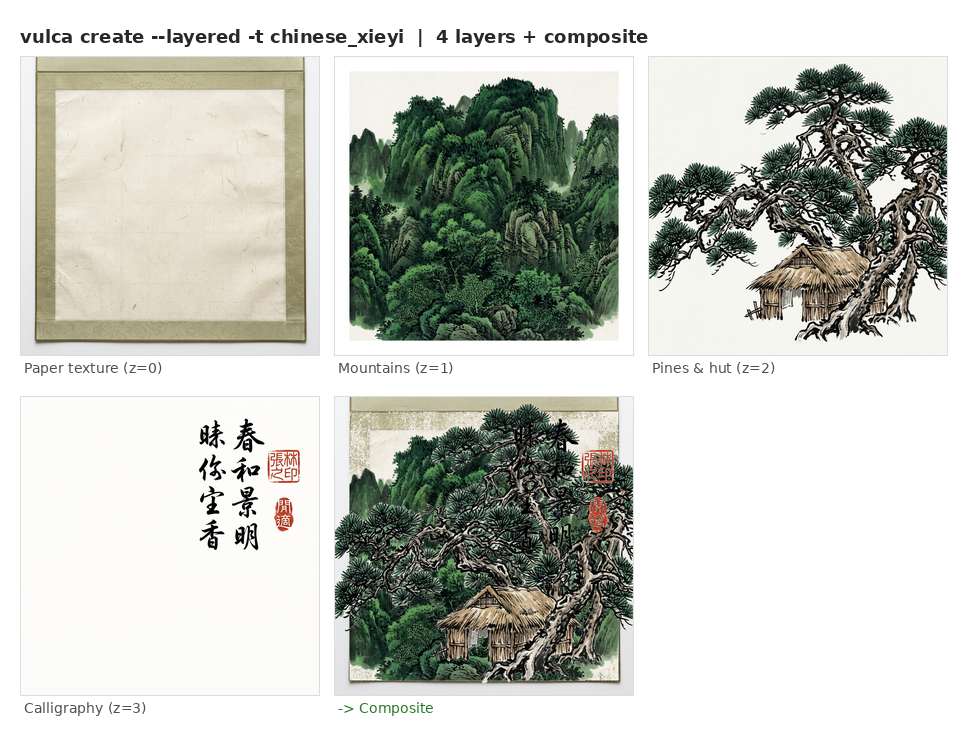
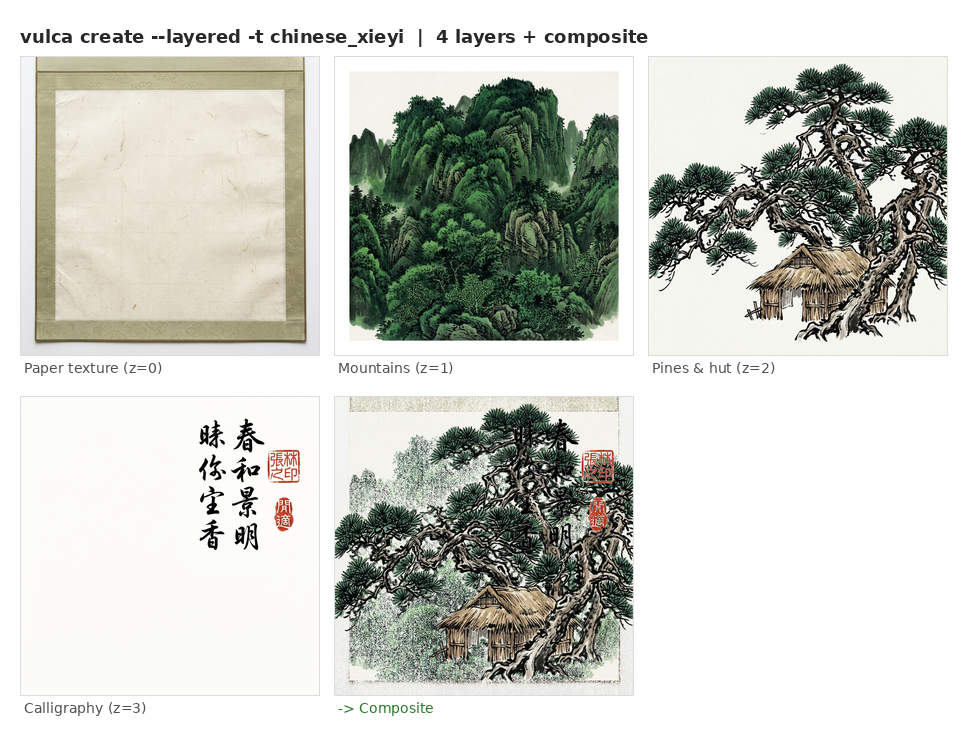
fix(layers): blend_layers white-to-transparent for LAYERED pipeline RGB layers
Root cause: LAYERED pipeline generates RGB layers with white background.
blend_layers converted RGB→RGBA with alpha=255 (fully opaque), so each
layer completely covered the previous one. Composite showed only the
last layer (calligraphy).

Fix: For non-background layers with fully opaque alpha (RGB source),
convert near-white pixels to transparent before blending. This makes
composite_layers work correctly for both RGBA layers (existing) and
RGB-with-white-bg layers (LAYERED pipeline).

Updated showcase image to use real vulca composite_layers output.

Changed region(s): [[0.3409, 0.527, 0.6508, 0.9299]]

diff --git a/src/vulca/layers/blend.py b/src/vulca/layers/blend.py
@@ -97,6 +97,16 @@ def blend_layers(
         if layer_img.size != (width, height):
             layer_img = layer_img.resize((width, height), Image.LANCZOS)
 
+        # For non-background layers with fully opaque alpha (RGB source),
+        # convert near-white pixels to transparent so layers composite correctly.
+        # This handles LAYERED pipeline output where each layer has white bg.
+        if layer.info.content_type != "background":
+            arr = np.array(layer_img)
+            if arr[:, :, 3].min() > 250:  # fully opaque = was RGB
+                white = (arr[:, :, 0] > 240) & (arr[:, :, 1] > 240) & (arr[:, :, 2] > 240)
+                arr[:, :, 3][white] = 0
+                layer_img = Image.fromarray(arr, "RGBA")
+
         blend_fn = _BLEND_FNS.get(layer.info.blend_mode, blend_normal)
         canvas = blend_fn(canvas, layer_img)
 
